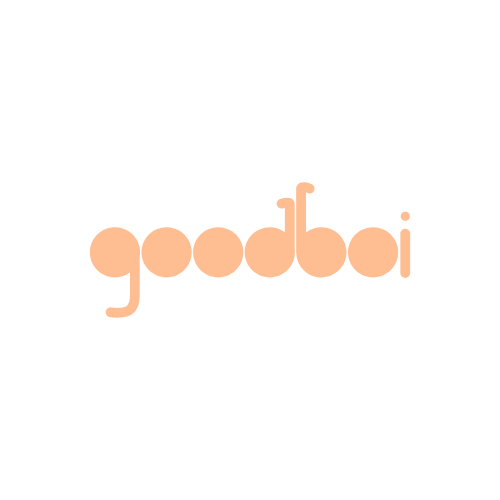
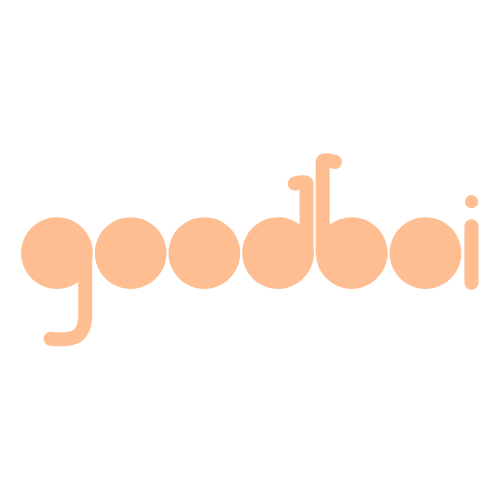
update to watermark functionality

Changed region(s): [[0.03, 0.3, 0.96, 0.69]]

diff --git a/app/Services/FileUploader/ListingsImagesUploader.php b/app/Services/FileUploader/ListingsImagesUploader.php
@@ -43,10 +43,13 @@ class ListingsImagesUploader implements ImagePhotoUploaderInterface
 
                 $fileName = date('d-m-Y-H-i') . "_img_" .  uniqid() . "." . $file->getClientOriginalExtension();
 
-                $file = $this->compress($file);
-                $file = $this->addWatermark($file);
-
-                $file->save(public_path() . SELF::LISTING_IMAGES_PATH . "/" . $fileName);
+                $image = Image::make($file);
+                unset($file);
+                $watermarkFile = $this->addWatermark($image);
+                unset($image);
+                $finishedFile   =     $this->compress($watermarkFile);
+                unset($watermarkFile);
+                $finishedFile->save(public_path() . SELF::LISTING_IMAGES_PATH . "/" . $fileName);
                 $path = SELF::LISTING_IMAGES_PATH . $fileName;
                 DogListingImages::create([
                     'name' => $fileName,
@@ -69,7 +72,7 @@ class ListingsImagesUploader implements ImagePhotoUploaderInterface
      */
     public function compress($file)
     {
-        return Image::make($file)
+        return $file
             ->resize(1240, 800);
     }
 
@@ -81,10 +84,7 @@ class ListingsImagesUploader implements ImagePhotoUploaderInterface
      */
     public function addWatermark($file)
     {
-        $watermark = Image::make(public_path('/images/watermark/goodboi_watermark.png'));
-
-        $file->insert($watermark, 'bottom-right', 5, 5);
-
+        $file->insert(Image::make(public_path('/images/watermark/goodboi_watermark.png')), 'bottom-right', 1, 1);
         return $file;
     }
 }
